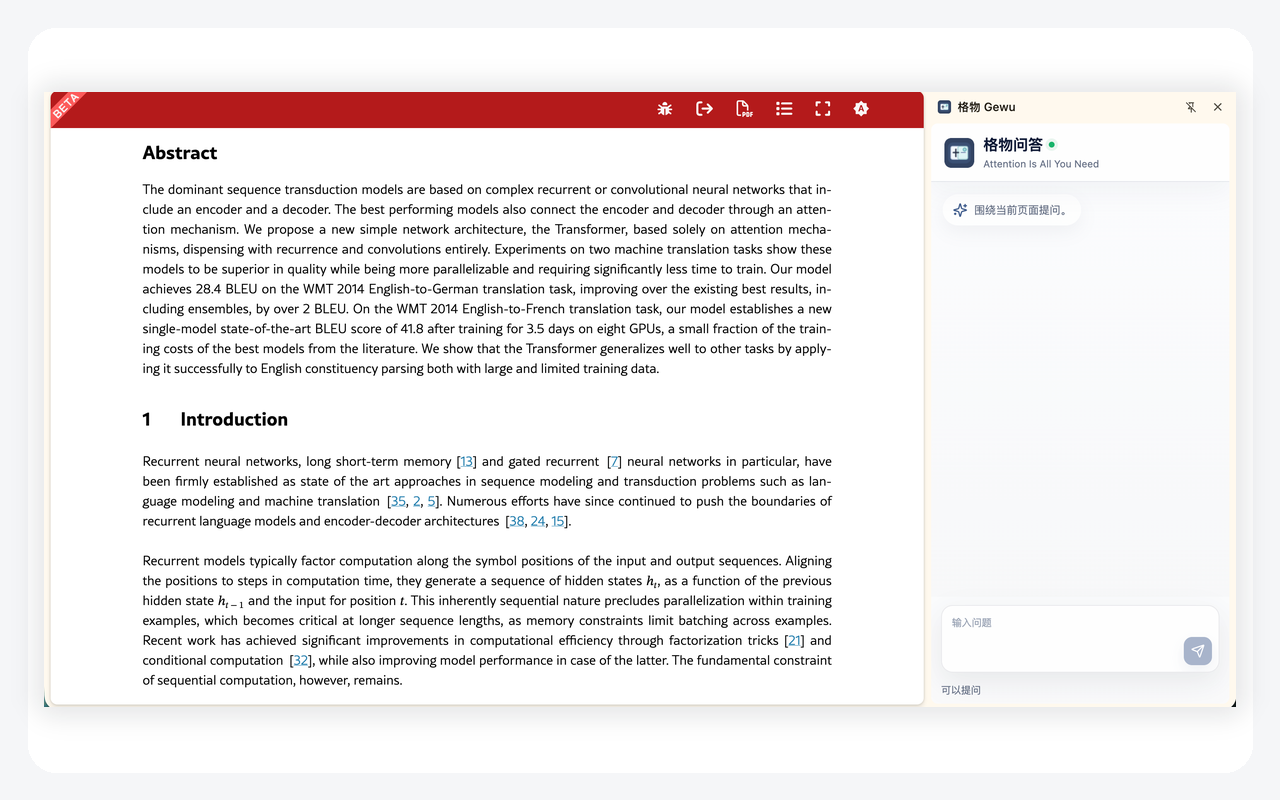
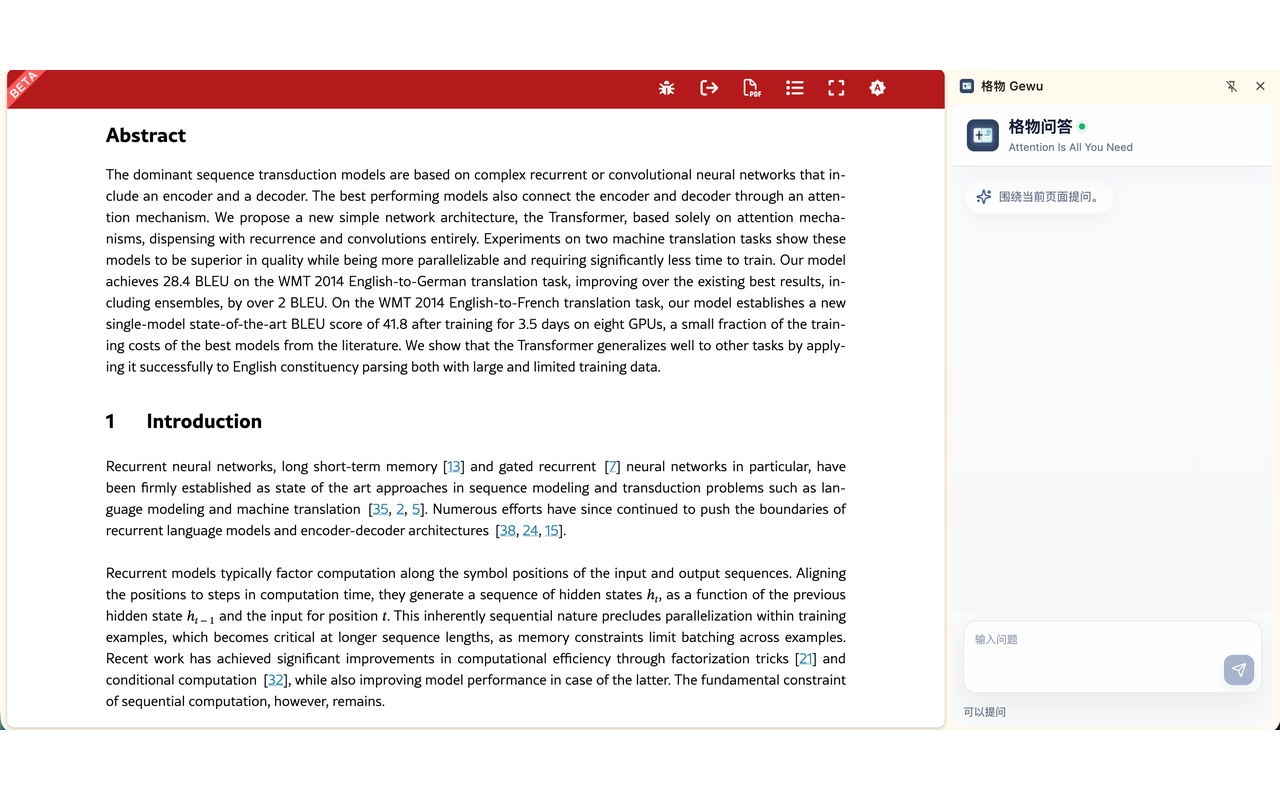
更新v0.2商店素材与隐私政策

diff --git a/PRIVACY.md b/PRIVACY.md
@@ -1,27 +1,28 @@
 # Privacy Policy for Gewu
 
-Last updated: June 24, 2026
+Last updated: June 26, 2026
 
-Gewu is a browser extension that helps users translate foreign-language webpages and ask questions about the current page.
+Gewu is a browser extension that helps users translate foreign-language webpages and PDFs, read articles in an immersive dual-column view, and ask questions about the current page.
 
 ## Data Gewu Processes
 
 Gewu may process the following data to provide its core features:
 
 - Website content from the current page, such as article text and page title.
+- PDF document text, when a PDF URL is opened and translation is requested.
 - The current page URL, used as part of the page context.
 - User-entered questions in the side panel.
 - User settings, including AI provider, base URL, model, target language, and API key.
 
 ## How Data Is Used
 
-Gewu uses this data only to provide webpage translation and page-based question answering.
+Gewu uses this data only to provide webpage translation, PDF translation, immersive reading, and page-based question answering.
 
-Website content and user questions may be sent to the AI provider configured by the user. Gewu does not operate its own backend server for translation or question answering.
+Website content, PDF text, and user questions may be sent to the AI provider configured by the user. Gewu does not operate its own backend server for translation or question answering.
 
 ## API Keys
 
-User API keys are stored locally in browser extension storage. Gewu does not upload API keys to Gewu-owned servers.
+User API keys are stored locally in browser extension storage, encrypted with AES-GCM using a key derived from the extension ID. Gewu does not upload API keys to Gewu-owned servers, nor does it store them in plain text on disk.
 
 When the user requests translation or question answering, the configured API key is used to call the AI provider selected by the user.
 
@@ -37,17 +38,19 @@ Gewu sends page content and user questions only to the AI provider configured by
 
 Gewu stores user settings locally in the browser extension storage until the user changes or removes them.
 
-Gewu does not maintain a separate server-side database of user page content, questions, browsing history, or API keys.
+Translation results are cached locally in IndexedDB, keyed by URL and content hash, to provide instant display on subsequent visits to the same page. This cache is stored entirely on the user's device and is never transmitted to any server.
+
+Gewu does not maintain a separate server-side database of user page content, questions, browsing history, API keys, or translation cache.
 
 ## Permissions
 
 Gewu requests browser permissions only to provide its core functionality:
 
 - `activeTab`: access the current tab when the user starts translation or page Q&A.
-- `host_permissions`: run on webpages so page text can be translated.
+- `host_permissions`: run on webpages so page text can be translated, and support PDF translation and immersive reading.
 - `scripting`: interact with the current webpage for translation features.
 - `sidePanel`: provide the page-based Q&A panel.
-- `storage`: save local settings and API key.
+- `storage`: save local settings and encrypted API key.
 - `tabs`: detect the active tab and refresh page context when the active tab changes.
 
 ## Contact

diff --git a/README.md b/README.md
@@ -15,7 +15,7 @@ v0.2.0，支持 Chrome / Edge MV3：
 - **沉浸阅读模式**：提取页面正文，在新标签页双栏对照阅读。
 - **AI 对话**：Side Panel 基于当前页面内容持续问答。
 - **译文缓存**：IndexedDB 自动缓存，相同页面二次打开秒出译文。
-- **加密存储**：API Key 自动加密后落盘，不清文存储。
+- **加密存储**：API Key 自动加密后落盘，不存储明文。
 - 支持 **DeepSeek / OpenAI 兼容 / Anthropic Claude**，用户自备 API Key。
 
 ## 效果预览